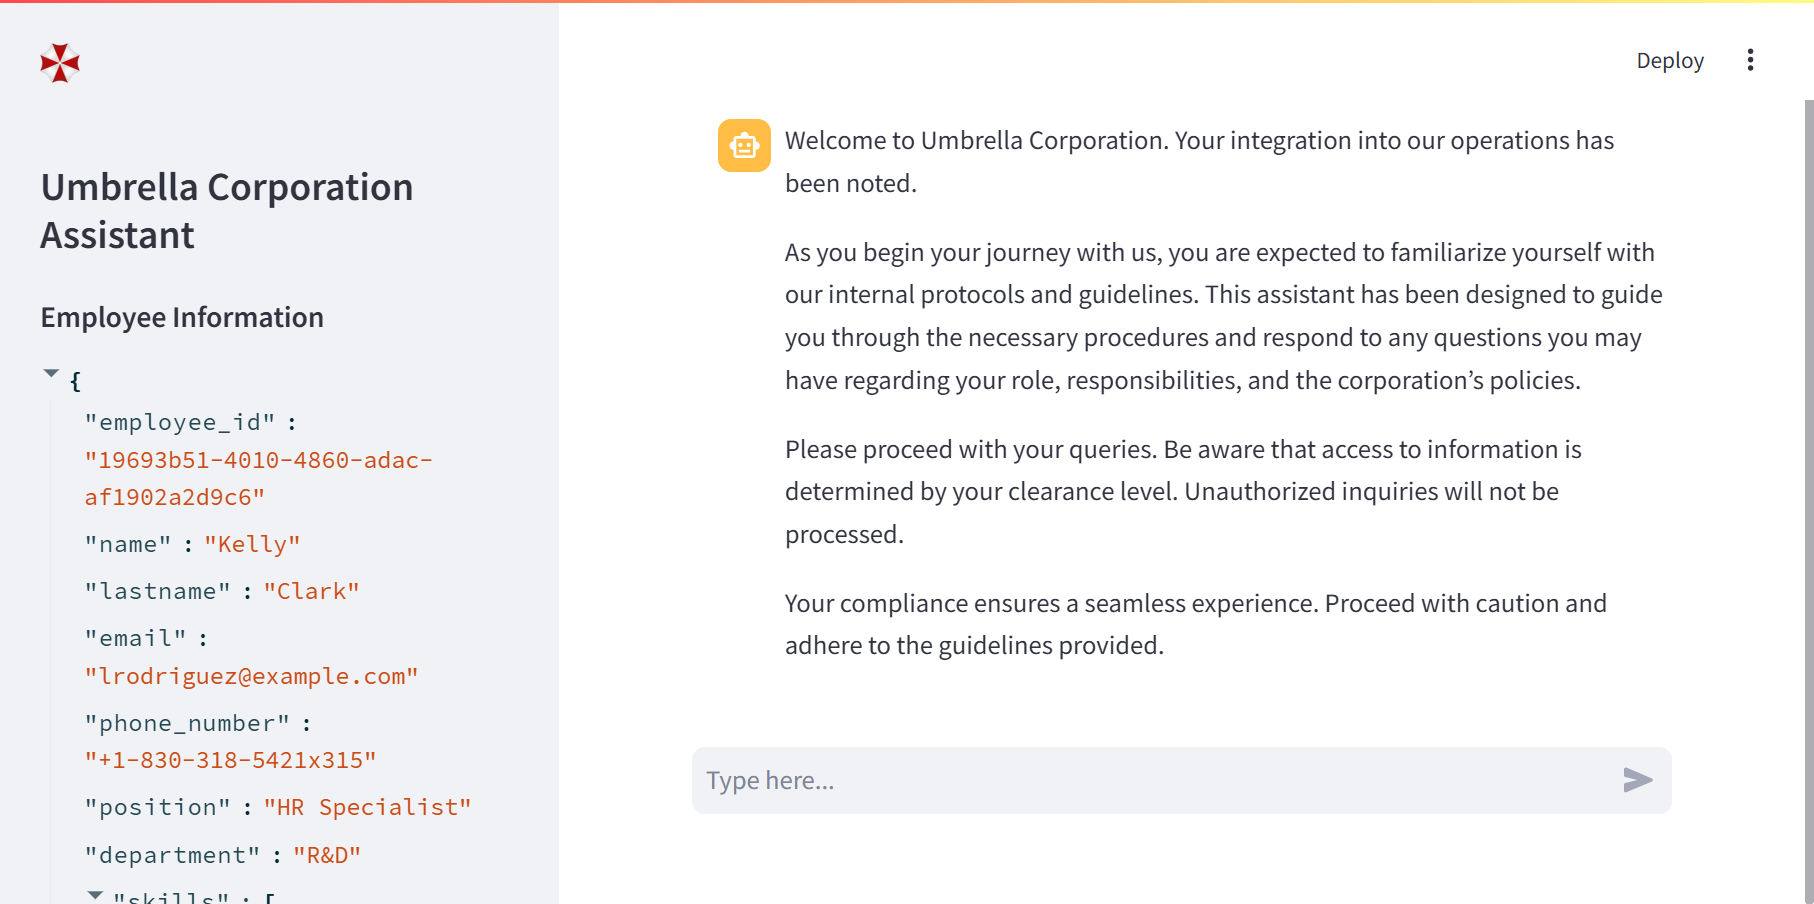
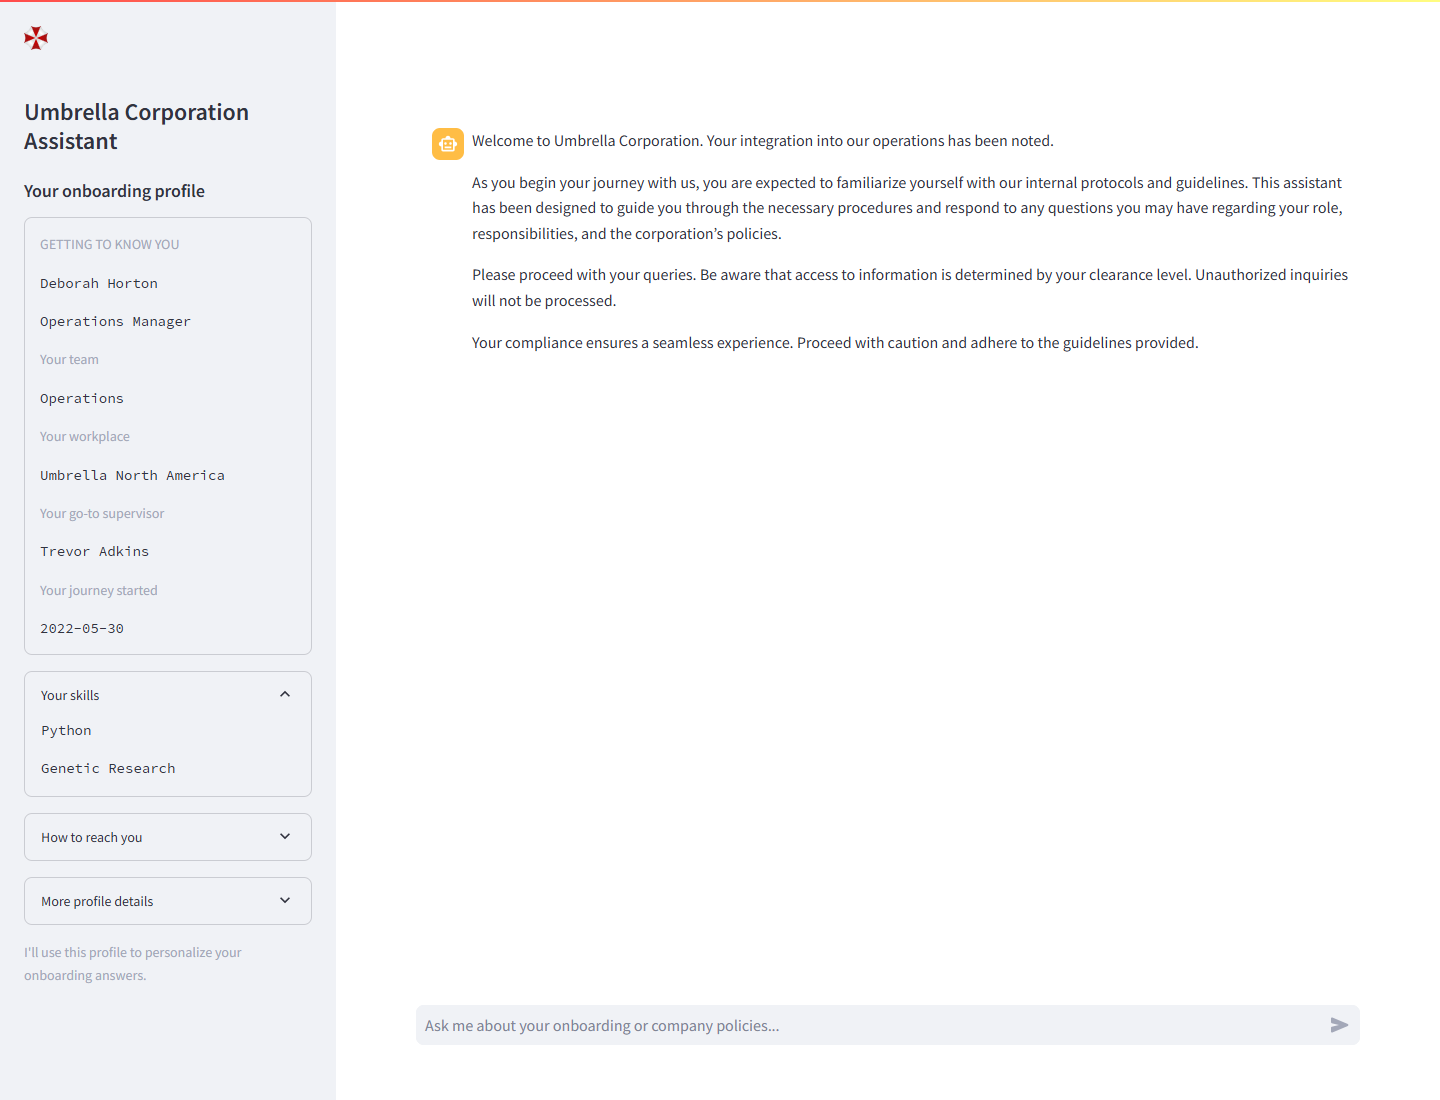
Improve onboarding profile UI and refresh screenshots
Replace raw employee JSON with labeled profile sections, hide the Streamlit toolbar, and update UI tests and README screenshots.

diff --git a/gui.py b/gui.py
@@ -24,8 +24,53 @@ class AssistantGUI:
     def set_state(self, key, value):
         st.session_state[key] = value
 
+    def render_employee_information(self):
+        profile = self.employee_information
+        st.subheader("Your onboarding profile")
+        if not profile:
+            st.info("No employee profile is available for this session.")
+            return
+
+        with st.container(border=True):
+            st.caption("GETTING TO KNOW YOU")
+            st.text(" ".join(
+                profile[key] for key in ("name", "lastname") if profile.get(key)
+            ))
+            if profile.get("position"):
+                st.text(profile["position"])
+
+            for key, label in (
+                ("department", "Your team"),
+                ("location", "Your workplace"),
+                ("supervisor", "Your go-to supervisor"),
+                ("hire_date", "Your journey started"),
+            ):
+                if key in profile:
+                    st.caption(label)
+                    st.text(str(profile[key]))
+
+        if profile.get("skills"):
+            with st.expander("Your skills", expanded=True):
+                for skill in profile["skills"]:
+                    st.text(skill)
+
+        with st.expander("How to reach you"):
+            for key, label in (("email", "Email address"), ("phone_number", "Phone number")):
+                if key in profile:
+                    st.caption(label)
+                    st.text(str(profile[key]))
+
+        with st.expander("More profile details"):
+            for key, label in (("employee_id", "Employee ID"), ("salary", "Salary")):
+                if key in profile:
+                    st.caption(label)
+                    value = profile[key]
+                    st.text(f"{value:,.2f}" if key == "salary" else str(value))
+
+        st.caption("I'll use this profile to personalize your onboarding answers.")
+
     def render_user_input(self):
-        user_input = st.chat_input("Type here...", key="input")
+        user_input = st.chat_input("Ask me about your onboarding or company policies...", key="input")
         if user_input and user_input != "":
             st.chat_message("human").markdown(user_input)
 
@@ -43,14 +88,17 @@ class AssistantGUI:
             self.set_state("messages", self.messages)
 
     def render(self):
+        st.markdown(
+            "<style>[data-testid=\"stToolbar\"] {display: none;}</style>",
+            unsafe_allow_html=True,
+        )
         with st.sidebar:
             st.logo(
                 "https://upload.wikimedia.org/wikipedia/commons/0/0e/Umbrella_Corporation_logo.svg"
             )
             st.title("Umbrella Corporation Assistant")
 
-            st.subheader("Employee Information")
-            st.write(self.employee_information)
+            self.render_employee_information()
 
         self.render_messages()
 

diff --git a/tests/test_ollama.py b/tests/test_ollama.py
@@ -125,6 +125,64 @@ AssistantGUI(LocalAssistant()).render()
             [element.value for element in app.markdown].count("Local answer"), 1
         )
 
+    def test_gui_renders_labeled_profile_without_json(self):
+        app = AppTest.from_string(
+            """
+from gui import AssistantGUI
+
+class LocalAssistant:
+    messages = []
+    employee_information = {
+        "name": "Demo",
+        "lastname": "Employee",
+        "position": "Software Engineer",
+        "department": "IT",
+        "location": "Raccoon City HQ",
+        "supervisor": "Demo Supervisor",
+        "hire_date": "2026-01-01",
+        "skills": ["Python", "Data Analysis"],
+        "email": "demo@example.test",
+        "phone_number": "555-0100",
+        "employee_id": "demo-id",
+        "salary": 65000.5,
+    }
+
+AssistantGUI(LocalAssistant()).render()
+"""
+        ).run()
+
+        self.assertEqual(len(app.exception), 0)
+        self.assertEqual(len(app.json), 0)
+        self.assertIn("Your team", [element.value for element in app.caption])
+        self.assertEqual(
+            [element.value for element in app.text],
+            [
+                "Demo Employee", "Software Engineer", "IT", "Raccoon City HQ",
+                "Demo Supervisor", "2026-01-01", "Python", "Data Analysis",
+                "demo@example.test", "555-0100", "demo-id", "65,000.50",
+            ],
+        )
+        self.assertEqual(
+            [element.label for element in app.expander],
+            ["Your skills", "How to reach you", "More profile details"],
+        )
+
+    def test_gui_missing_profile_shows_notice(self):
+        app = AppTest.from_string(
+            """
+from gui import AssistantGUI
+
+class LocalAssistant:
+    messages = []
+    employee_information = None
+
+AssistantGUI(LocalAssistant()).render()
+"""
+        ).run()
+
+        self.assertEqual(len(app.exception), 0)
+        self.assertIn("No employee profile", app.info[0].value)
+
 
 if __name__ == "__main__":
     unittest.main()

diff --git a/readme.md b/readme.md
@@ -14,7 +14,10 @@ keys.
   PDF using retrieval-augmented generation (RAG).
 - **Personalized responses:** Includes a generated employee profile in the
   prompt, with details such as role, department, skills, and supervisor.
-- **Employee sidebar:** Displays the synthetic profile alongside the chat.
+- **Employee sidebar:** Displays a labeled profile card instead of raw JSON,
+  with expandable skills, contact information, and additional profile details.
+- **Focused interface:** Hides Streamlit's running/stop/deploy toolbar while
+  keeping the sidebar toggle available.
 - **Streaming answers:** Shows the response as the local model generates it.
 - **Conversation context:** Keeps chat history and the selected employee in
   Streamlit session state.
@@ -26,11 +29,12 @@ keys.
 ## Screenshots
 
 Captured from the running application with local Ollama models. All employee
-details shown are synthetic demo data.
+details shown are synthetic demo data. The updated interface uses a labeled
+profile card and expandable sections, with Streamlit's toolbar hidden.
 
 ### Welcome screen and employee profile
 
-![Welcome screen with the synthetic employee sidebar](docs/screenshots/onboarding-home.png)
+![Welcome screen with the labeled employee profile and expandable details](docs/screenshots/onboarding-home.png)
 
 ### Policy question and response
 
